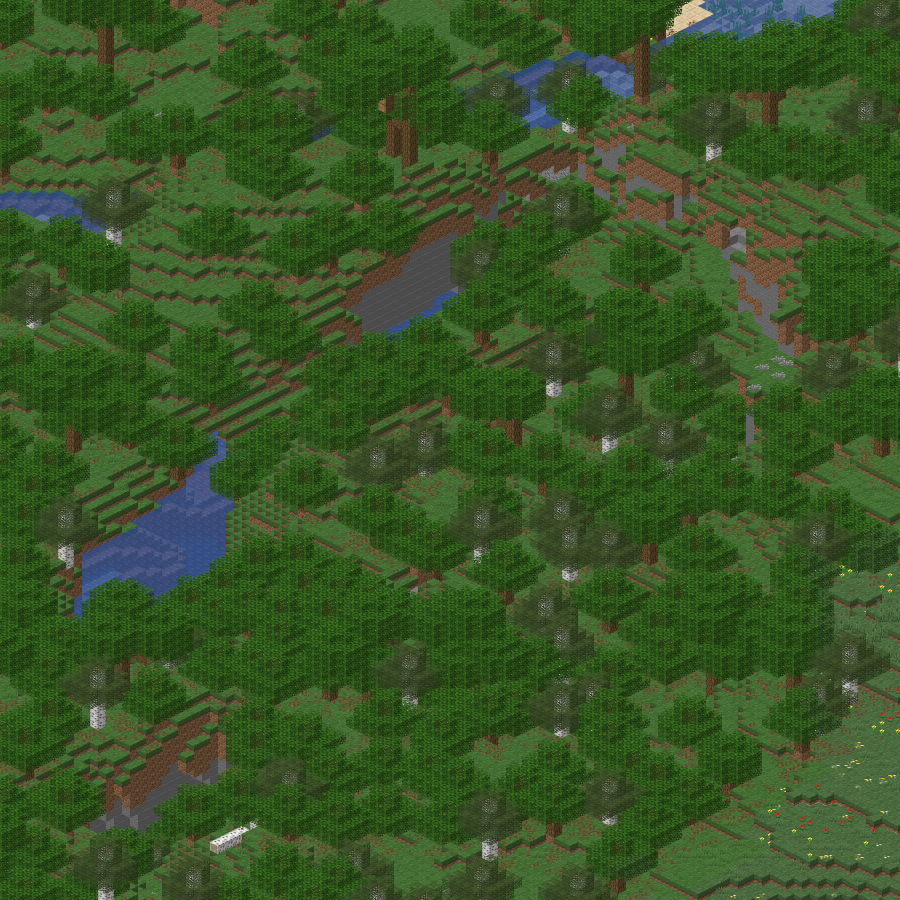
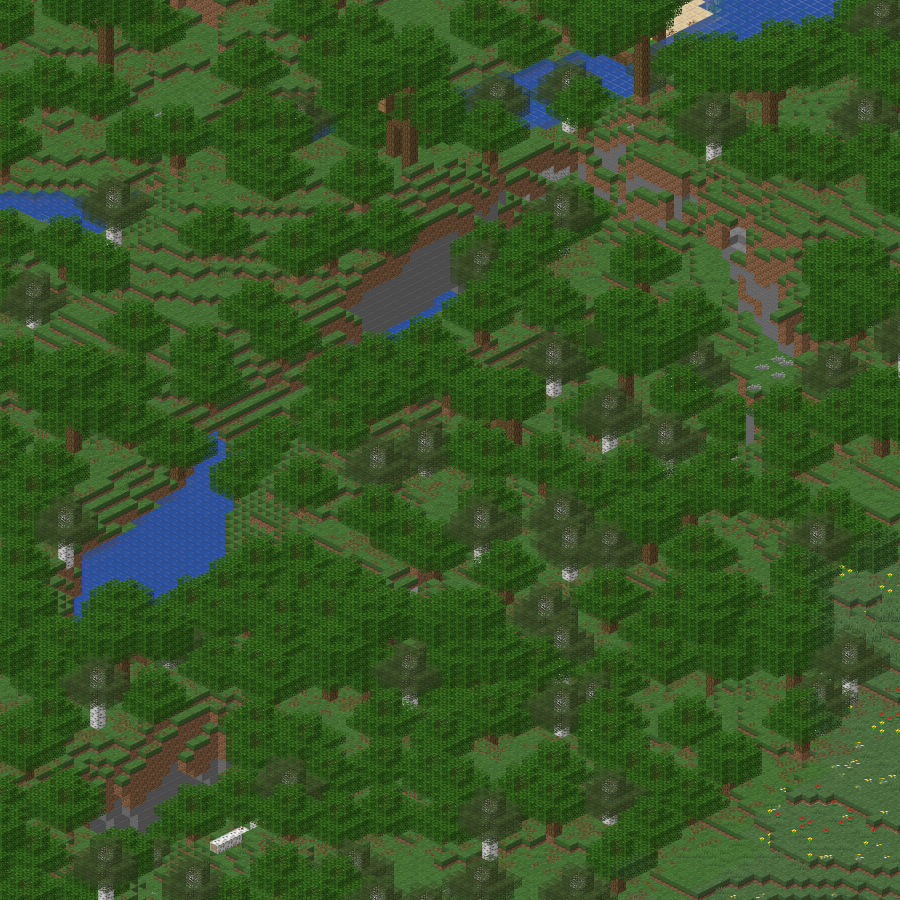
Wasser: Oberfläche deckt wie alle Schichten darunter
Nur innere Flächen wegzulassen liess in jeder Tiefe den Grund durch —
ein Ozean sah aus wie Kies hinter Milchglas. Der Renderer zählt je
Oberflächenblock die Wasserblöcke darunter (bis vier) und nimmt die
Fassung, deren Oberfläche das Alpha von so vielen Schichten trägt,
aus der Textur gerechnet. Durch einen Block sieht man den Grund, durch
vier nicht mehr.

diff --git a/renderer/src/render/sprites.rs b/renderer/src/render/sprites.rs
@@ -37,10 +37,10 @@ pub struct SpriteSet {
     /// je Paletteneintrag und spart sich das Hashen der Blockstate je Block.
     families: Vec<Family>,
     by_state: HashMap<BlockState, u32>,
-    /// Fassungen einer Fluessigkeit ohne die Flaechen zu gleichen Nachbarn,
-    /// indiziert mit der Maske aus `mask_bit`. Eintrag 0 ist das Sprite
-    /// selbst.
-    by_mask: HashMap<SpriteId, [Option<SpriteId>; 8]>,
+    /// Fassungen einer Fluessigkeit: je Maske aus verdeckten Flaechen
+    /// (`mask_bit`) eine, und fuer Masken mit Oberflaeche je Tiefe darunter
+    /// eine — Index `mask + 8 * tiefe`. Eintrag 0 ist das Sprite selbst.
+    by_mask: HashMap<SpriteId, Vec<Option<SpriteId>>>,
     /// Fassungen je Biom, nur fuer Sprites mit gefaerbten Flaechen. Das
     /// Sprite fuehrt zur Fassung des Standardklimas, von dort geht es
     /// ueber den Biomnamen weiter.
@@ -109,9 +109,14 @@ fn java_random_int(seed: i64) -> i32 {
     next()
 }
 
+/// Wie viele Schichten Wasser unter einer Oberflaeche noch unterschieden
+/// werden. Bei Alpha 180 laesst eine Schicht 29 Prozent durch, vier noch
+/// 0,7 — darunter sieht man nichts mehr, also gilt ab da dieselbe Fassung.
+pub const DEPTHS: usize = 4;
+
 /// Bit in der Verdeckungsmaske fuer eine Fluessigkeitsflaeche: die drei
 /// Seiten, die die Kamera sieht, in der Reihenfolge der Nachbarn +x, +y, +z.
-fn mask_bit(face: Face) -> u8 {
+pub fn mask_bit(face: Face) -> u8 {
     match face {
         Face::East => 1,
         Face::Up => 2,
@@ -195,7 +200,8 @@ impl SpriteSet {
     }
 
     /// Ein Modell mit allen Fassungen: bei einer Fluessigkeit je Maske aus
-    /// verdeckten Flaechen eine, und davon je Biom eine.
+    /// verdeckten Flaechen eine, fuer die Oberflaeche je Tiefe darunter
+    /// eine, und davon je Biom eine.
     fn insert_fluid(
         &mut self,
         assets: &Assets,
@@ -204,22 +210,44 @@ impl SpriteSet {
         has_fluid: bool,
     ) -> Option<SpriteId> {
         let base = self.insert_tinted(assets, state, model)?;
-        if has_fluid {
-            let mut masked = [None; 8];
-            masked[0] = Some(base);
-            for mask in 1..8u8 {
-                let culled = BakedModel {
-                    quads: model
-                        .quads
-                        .iter()
-                        .filter(|q| q.fluid.is_none_or(|(_, face)| mask & mask_bit(face) == 0))
-                        .cloned()
-                        .collect(),
-                };
-                masked[mask as usize] = self.insert_tinted(assets, state, &culled);
-            }
-            self.by_mask.insert(base, masked);
+        if !has_fluid {
+            return Some(base);
         }
+        // Deckt die Textur schon, gibt es keine Tiefe zu zeichnen: Lava.
+        let translucent = model.quads.iter().any(|q| {
+            q.fluid.is_some()
+                && assets
+                    .textures()
+                    .image(q.texture)
+                    .pixels()
+                    .any(|p| p.0[3] > 0 && p.0[3] < 255)
+        });
+        let mut variants = vec![None; 8 * DEPTHS];
+        variants[0] = Some(base);
+        for mask in 0..8u8 {
+            let surface = mask & mask_bit(Face::Up) == 0;
+            let depths = if surface && translucent { DEPTHS } else { 1 };
+            for depth in 0..depths {
+                if mask == 0 && depth == 0 {
+                    continue;
+                }
+                let quads = model
+                    .quads
+                    .iter()
+                    .filter(|q| q.fluid.is_none_or(|(_, face)| mask & mask_bit(face) == 0))
+                    .cloned()
+                    .map(|mut q| {
+                        if q.fluid.is_some_and(|(_, face)| face == Face::Up) {
+                            q.layers = depth as u8 + 1;
+                        }
+                        q
+                    })
+                    .collect();
+                variants[mask as usize + 8 * depth] =
+                    self.insert_tinted(assets, state, &BakedModel { quads });
+            }
+        }
+        self.by_mask.insert(base, variants);
         Some(base)
     }
 
@@ -322,11 +350,14 @@ impl SpriteSet {
     }
 
     /// Die Fassung einer Fluessigkeit ohne die Flaechen zu Nachbarn mit
-    /// derselben Fluessigkeit; `mask` traegt je Nachbar +x, +y, +z ein Bit.
+    /// derselben Fluessigkeit; `mask` traegt je Nachbar +x, +y, +z ein Bit,
+    /// `depth` zaehlt die Schichten unter der Oberflaeche (0 = keine).
     /// `None`, wenn nichts uebrig bleibt — ein Wasserblock mitten im Meer.
-    pub fn masked(&self, id: SpriteId, mask: u8) -> Option<SpriteId> {
+    pub fn masked(&self, id: SpriteId, mask: u8, depth: usize) -> Option<SpriteId> {
         match self.by_mask.get(&id) {
-            Some(masked) => masked[mask as usize],
+            Some(variants) => {
+                variants[mask as usize + 8 * depth.min(DEPTHS - 1)].or(variants[mask as usize])
+            }
             None => Some(id),
         }
     }

diff --git a/renderer/tests/metatile.rs b/renderer/tests/metatile.rs
@@ -605,3 +605,43 @@ fn alternativen_werden_aus_der_position_gewuerfelt() {
         }
     }
 }
+
+/// Die Wasseroberfläche trägt die Deckkraft aller Schichten darunter: durch
+/// einen Block Wasser sieht man den Grund, durch vier praktisch nicht mehr.
+#[test]
+fn tiefes_wasser_deckt() {
+    let projection = Projection::new(16);
+    let rect = ScreenRect::centered(256, 320);
+    // Säulen der Tiefe 1 bis 5 bei x = 2, 4, ..., 10 auf z = 8, Oberfläche y = 10.
+    let dir = tempdir();
+    let bild = render_chunks(
+        &dir,
+        &[(0, 0)],
+        |x, y, z| {
+            let tiefe = if z == 8 && x % 2 == 0 && (2..=10).contains(&x) {
+                x / 2
+            } else {
+                0
+            };
+            if y <= 10 && y > 10 - tiefe {
+                "minecraft:water"
+            } else {
+                "minecraft:air"
+            }
+        },
+        projection,
+        rect,
+    );
+    // Alpha nach d Schichten von 180: 255 - 255 * (75 / 255)^d, ab vier gedeckelt.
+    let erwartet = [180u8, 233, 249, 253, 253];
+    for (i, alpha) in erwartet.into_iter().enumerate() {
+        let x = 2 * (i as i32 + 1);
+        let p = oberseite(&bild, projection, rect, [x, 10, 8]);
+        assert!(
+            (p[3] as i32 - alpha as i32).abs() <= 1,
+            "Tiefe {}: Alpha {}, erwartet {alpha}",
+            i + 1,
+            p[3]
+        );
+    }
+}

diff --git a/renderer/src/render/metatile.rs b/renderer/src/render/metatile.rs
@@ -3,10 +3,11 @@ use std::collections::{BTreeSet, HashMap};
 use anyhow::Result;
 use image::{Rgba, RgbaImage};
 
+use crate::assets::Face;
 use crate::world::{Chunk, REGION, Region, World};
 
 use super::rasterizer::over;
-use super::sprites::Family;
+use super::sprites::{DEPTHS, Family, mask_bit};
 use super::{Cell, OWN_CELL, Projection, Sprite, SpriteId, SpriteSet};
 
 /// Reserve um das Zielrechteck herum, in Blockbreiten.
@@ -352,7 +353,20 @@ impl<'a> ChunkCache<'a> {
                     mask |= 1 << bit;
                 }
             }
-            match sprites.masked(id, mask) {
+            // Die Oberfläche trägt die Deckkraft aller Schichten darunter:
+            // durch einen Block Wasser sieht man den Grund, durch vier nicht
+            // mehr. Gezählt wird nur, wenn es eine Oberfläche gibt.
+            let mut depth = 0;
+            while mask & mask_bit(Face::Up) == 0
+                && depth + 1 < DEPTHS
+                && self
+                    .family_at(sprites, x, y - 1 - depth as i32, z)?
+                    .and_then(|below| below.fluid)
+                    .is_some_and(|(other, _)| other == fluid)
+            {
+                depth += 1;
+            }
+            match sprites.masked(id, mask, depth) {
                 Some(masked) => id = masked,
                 None => return Ok(None),
             }

diff --git a/renderer/src/render/rasterizer.rs b/renderer/src/render/rasterizer.rs
@@ -159,10 +159,11 @@ impl<'a> ProjectedQuad<'a> {
             Some(_) => tints.block,
         }
         .map(|tint| tint.map(|c| c as f32 / 255.0));
+        let layers = self.quad.layers;
         for [a, b, c] in [[0, 1, 2], [0, 2, 3]] {
             canvas.triangle(
                 [vertices[a], vertices[b], vertices[c]],
-                |u, v| sample(texture, tw, th, u, v),
+                |u, v| stacked(sample(texture, tw, th, u, v), layers),
                 self.shade,
                 tint,
             );
@@ -196,6 +197,16 @@ fn shade_factor(quad: &Quad) -> f32 {
     } else {
         SHADE_EAST_WEST
     }
+}
+
+/// Alpha von `layers` Schichten desselben Texels hintereinander: was eine
+/// Schicht durchlässt, lässt die nächste wieder nur zum Teil durch.
+fn stacked(mut texel: [u8; 4], layers: u8) -> [u8; 4] {
+    if layers > 1 && texel[3] > 0 && texel[3] < 255 {
+        let through = (1.0 - texel[3] as f32 / 255.0).powi(layers as i32);
+        texel[3] = 255 - (through * 255.0).round() as u8;
+    }
+    texel
 }
 
 /// Texel an normierten Koordinaten. Außerhalb von 0..1 wird wiederholt —
@@ -388,6 +399,7 @@ mod tests {
             shade,
             force_translucent: false,
             fluid: None,
+            layers: 1,
         }
     }
 

diff --git a/renderer/src/assets/baker.rs b/renderer/src/assets/baker.rs
@@ -20,6 +20,10 @@ pub struct Quad {
     /// Gesetzt für die Flächen einer Flüssigkeit, mit ihrer Richtung: die
     /// Fläche entfällt, wenn der Nachbar dort dieselbe Flüssigkeit führt.
     pub fluid: Option<(Fluid, Face)>,
+    /// Wie viele Schichten dieser Textur hintereinander liegen. Eine
+    /// Wasseroberfläche über drei Blöcken Wasser deckt wie drei Schichten,
+    /// nicht wie eine — der Rasterizer rechnet das Alpha entsprechend hoch.
+    pub layers: u8,
 }
 
 impl Quad {
@@ -104,6 +108,7 @@ pub fn bake(variants: &[ResolvedVariant]) -> BakedModel {
                     shade: element.shade,
                     force_translucent: data.force_translucent,
                     fluid: None,
+                    layers: 1,
                 });
             }
         }
@@ -145,6 +150,7 @@ pub fn box_quads(
             shade: true,
             force_translucent: false,
             fluid: fluid.map(|fluid| (fluid, face)),
+            layers: 1,
         }
     })
 }

diff --git a/renderer/tests/render.rs b/renderer/tests/render.rs
@@ -235,6 +235,7 @@ fn unsinnig_grosse_modelle_werden_uebersprungen() {
             shade: true,
             force_translucent: false,
             fluid: None,
+            layers: 1,
         }],
     };
     assert!(

diff --git a/README.md b/README.md
@@ -295,10 +295,19 @@ aber der Renderer, und er wählt je Block die Fassung ohne die Flächen zu
 gleichem Wasser daneben und darüber. Sonst läge in jedem Becken Wasser
 über Wasser, die Deckkraft stiege an jeder Blockgrenze, und der Grund
 schimmerte durch ein Raster. Ein Wasserblock mitten im Ozean hat danach
-keine Fläche mehr und kostet nichts. Gras und Laub funktionieren wie das
-Wasser: die Textur ist grau, das Biom liefert Temperatur und Niederschlag,
-und die Colormaps `grass.png` und `foliage.png` aus den Assets machen
-daraus die Farbe.
+keine Fläche mehr und kostet nichts.
+
+Die Oberfläche trägt dafür die Deckkraft aller Schichten darunter. Eine
+Schicht der Wassertextur lässt 29 Prozent durch, zwei noch 9, vier noch
+unter 1: durch einen Block Wasser sieht man den Grund, durch vier nicht
+mehr. Der Renderer zählt je Oberflächenblock die Wasserblöcke darunter
+und nimmt die Fassung mit dem entsprechend hochgerechneten Alpha — ohne
+das sähe ein Ozean aus wie ein Meeresboden hinter Milchglas, mit
+sichtbarem Kies in jeder Tiefe. Im Spiel erledigt das der Unterwassernebel.
+
+Gras und Laub funktionieren wie das Wasser: die Textur ist grau, das Biom
+liefert Temperatur und Niederschlag, und die Colormaps `grass.png` und
+`foliage.png` aus den Assets machen daraus die Farbe.
 Fichten, Birken und Seerosen haben feste Farben, der Sumpf seinen eigenen
 Grünton, der Dunkelwald eine Abdunkelung — alles wie in `BlockColors`, nur
 beschränkt auf das, was auf einer Karte Fläche macht. Redstone, Ranken und
